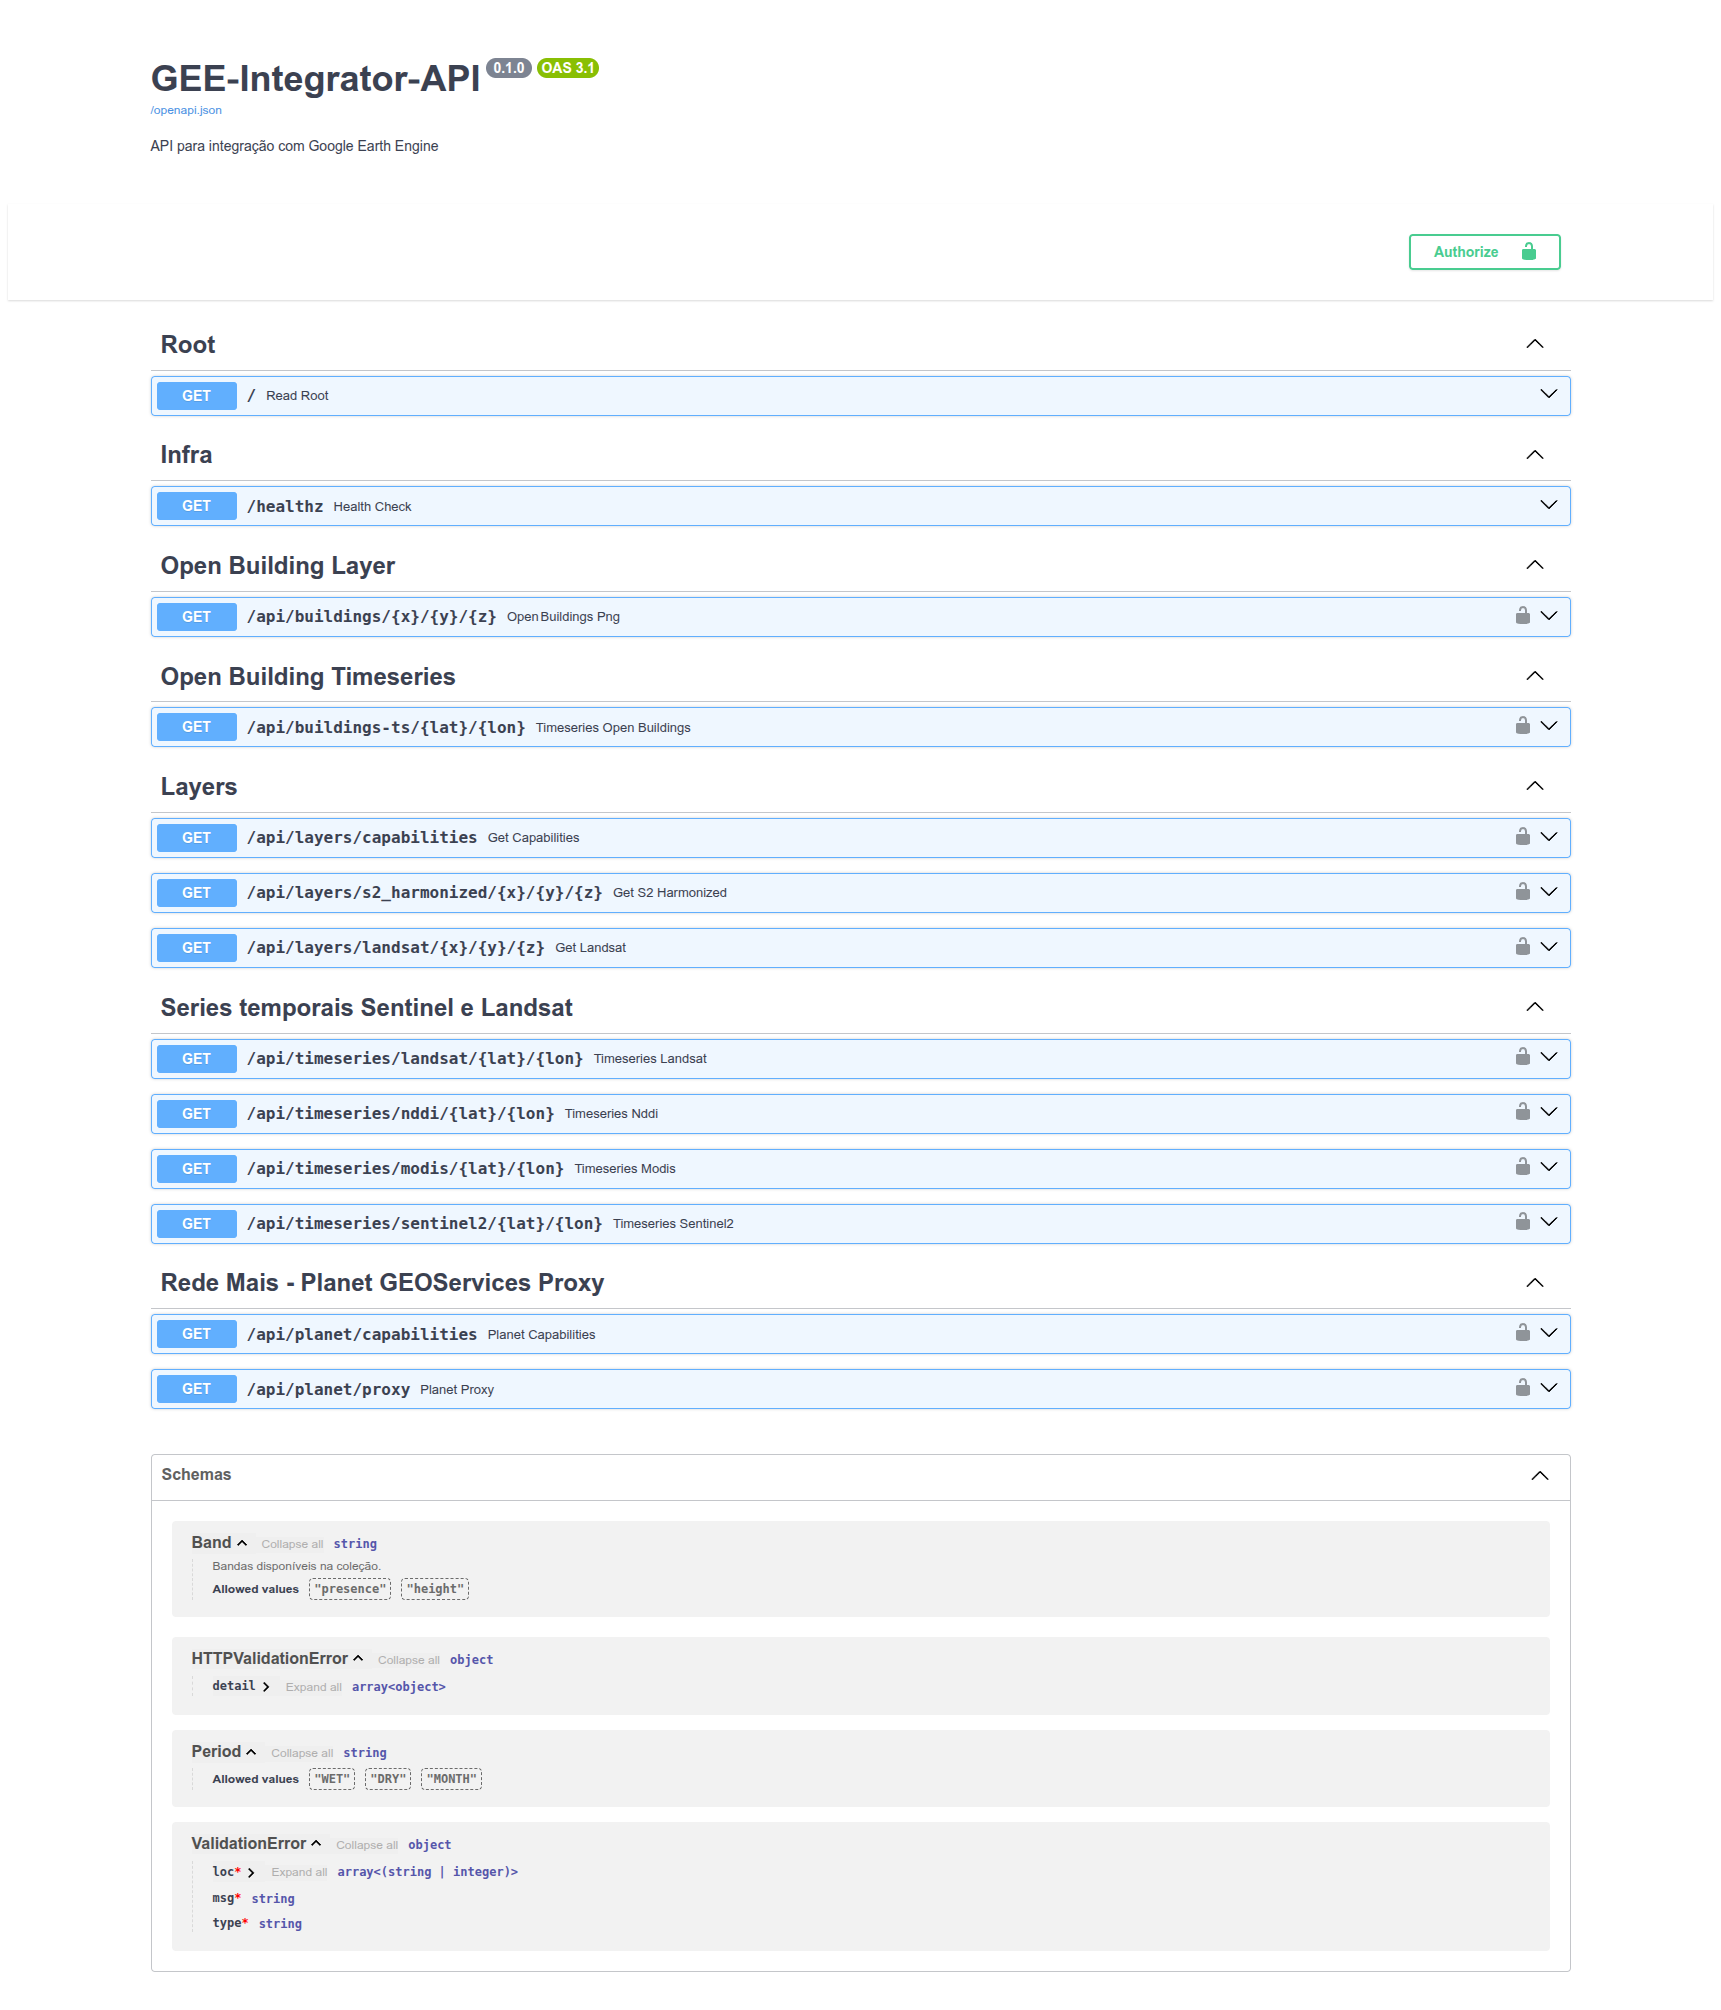
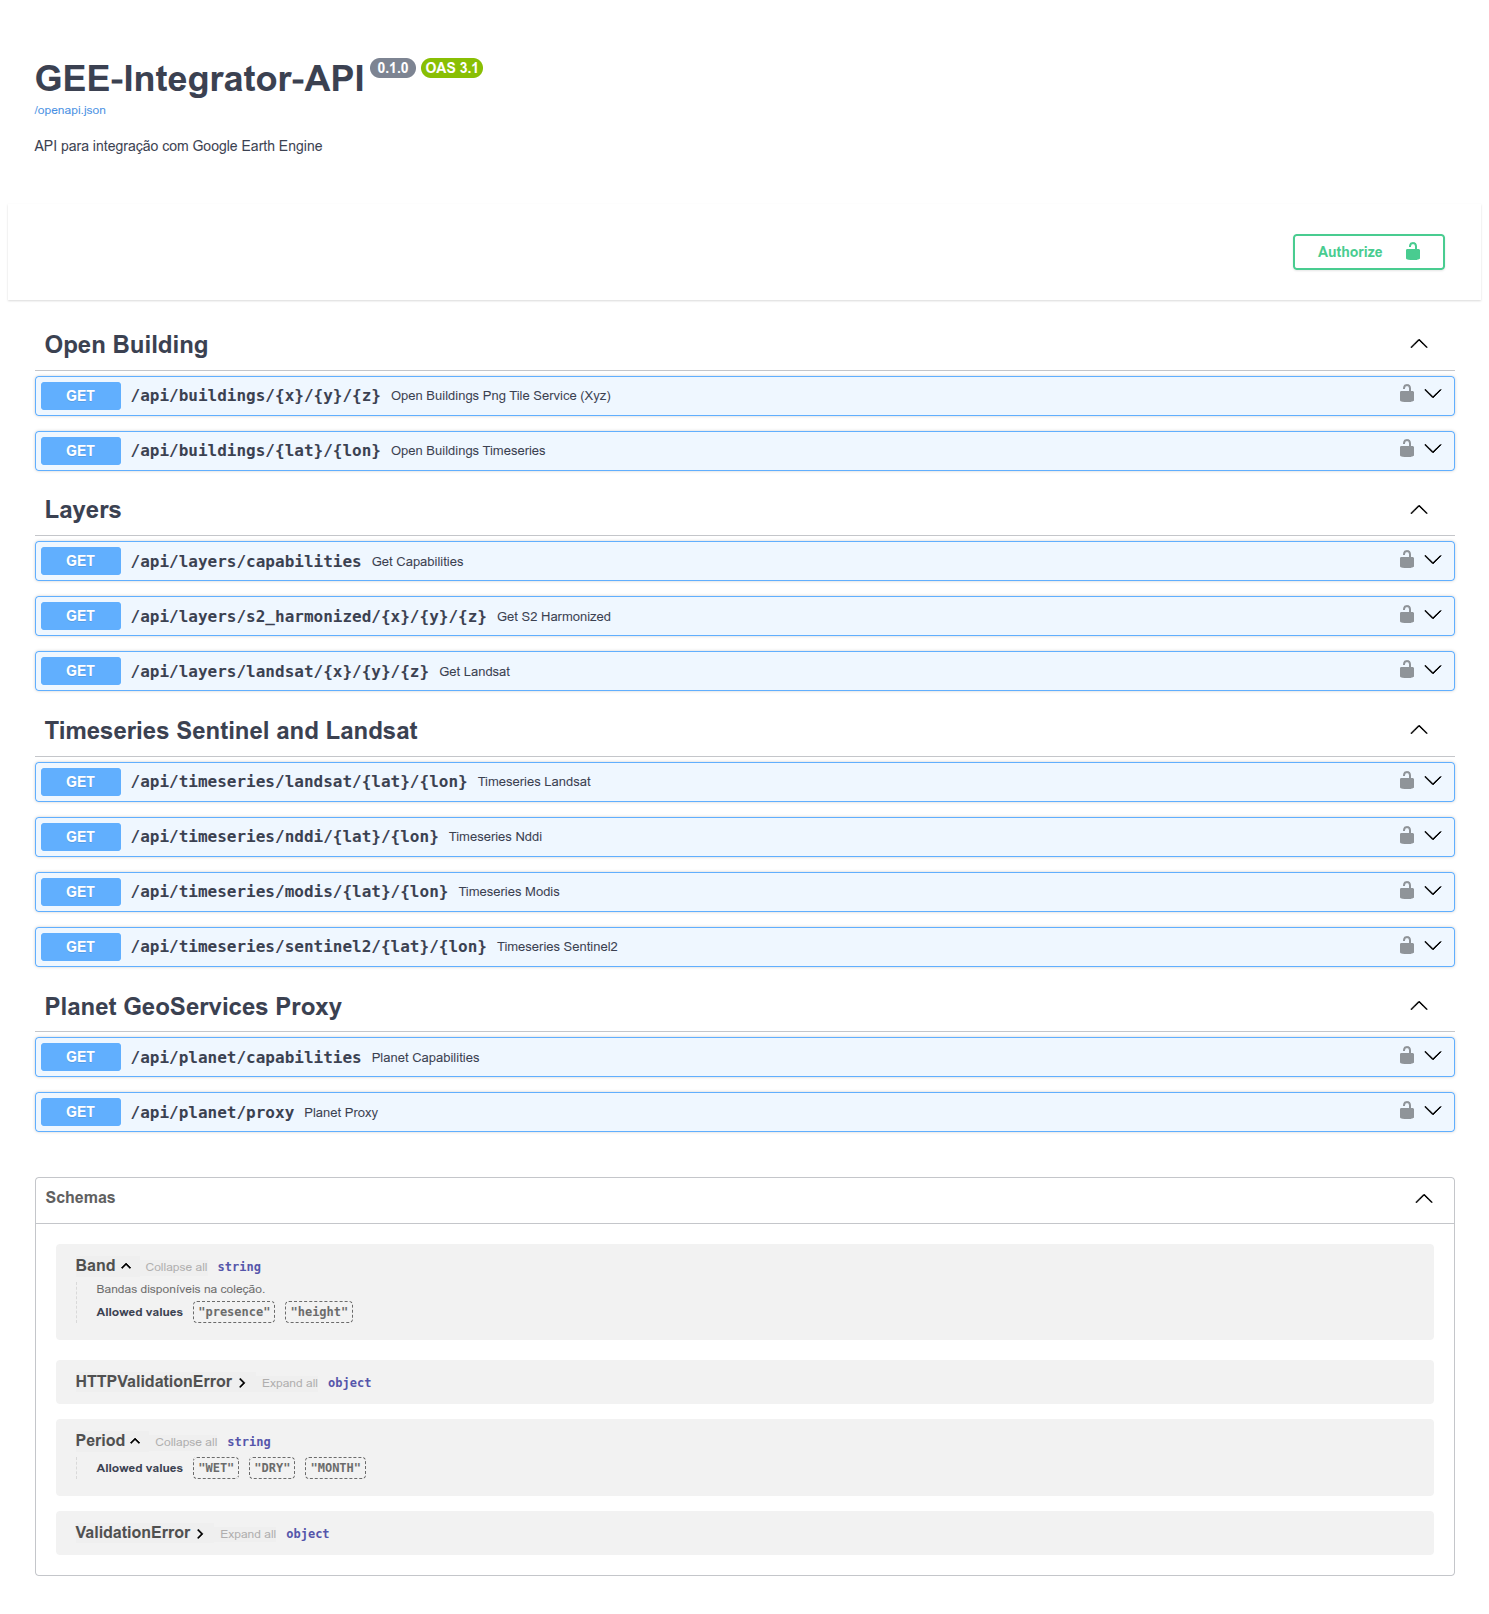
feat(api): implementação do health check.

diff --git a/app/api/buildings.py b/app/api/buildings.py
@@ -22,14 +22,20 @@ for necessário.
 from __future__ import annotations
 
 import io
-from datetime import datetime, timedelta
+from datetime import datetime
+from datetime import timedelta
 from enum import Enum
 from typing import Final
 
 import aiohttp
 import ee
-from fastapi import APIRouter, HTTPException, Request
+import numpy as np
+import pandas as pd
+from fastapi import APIRouter, HTTPException, Query
+from fastapi import Request
 from fastapi.responses import FileResponse, StreamingResponse
+from fastapi.responses import JSONResponse
+from scipy.signal import savgol_filter
 
 from app.auth.role_route import RoleAPIRouter
 from app.config import logger, settings
@@ -108,7 +114,7 @@ def _ano_valido(year: int) -> bool:
 # ----------------------------------------------------------------------------
 # Endpoint
 # ----------------------------------------------------------------------------
-@router.get("/{x}/{y}/{z}", name="Open Buildings PNG")
+@router.get("/{x}/{y}/{z}", name="Open Buildings PNG Tile Service (XYZ)")
 async def get_open_buildings_png(
     request: Request,
     x: int,
@@ -190,3 +196,78 @@ async def get_open_buildings_png(
 
     logger.info("Tile gerado %s", file_cache)
     return StreamingResponse(io.BytesIO(png), media_type="image/png")
+
+
+@router.get("/{lat}/{lon}", name="Open Buildings Timeseries")
+def timeseries_open_buildings(
+    lat: float,
+    lon: float,
+    band: str = Query("height", enum=["presence", "height"]),
+    start_date: str = Query("2015-07-01"),
+    end_date: str = Query(datetime.now().strftime('%Y-%m-%d'))
+
+):
+    try:
+        point = ee.Geometry.Point([lon, lat])
+        collection = ee.ImageCollection("GOOGLE/Research/open-buildings-temporal/v1") \
+            .filterDate(start_date, end_date) \
+            .filterBounds(point)
+
+        banda_gee = {
+            "presence": "building_presence",
+            "height": "building_height"
+        }[band]
+
+        def extract_band_timeseries(image):
+            date = ee.Date(image.get('system:time_start')).format('YYYY-MM-dd')
+            value = image.select(banda_gee).reduceRegion(
+                reducer=ee.Reducer.mean(),
+                geometry=point,
+                scale=10
+            ).get(banda_gee)
+            return ee.Feature(None, {"date": date, band: value})
+
+        series = collection.map(extract_band_timeseries).filter(
+            ee.Filter.notNull([band])
+        )
+
+        data = series.reduceColumns(
+            ee.Reducer.toList(2), ['date', band]
+        ).get('list').getInfo()
+
+        if not data:
+            return JSONResponse(content=[], status_code=204)
+
+        dates, values = zip(*data)
+        df = pd.DataFrame({'date': dates, band: values})
+        df = df.groupby('date').mean().reset_index()
+
+        def smooth(values, window_size=5, poly_order=2):
+            if len(values) >= window_size:
+                return savgol_filter(values, window_size, poly_order).tolist()
+            return values
+
+        values_raw = df[band].tolist()
+        values_smoothed = smooth(np.array(values_raw))
+
+        return JSONResponse(content=[
+            {
+                "x": df['date'].tolist(),
+                "y": values_raw,
+                "type": "scatter",
+                "mode": "markers",
+                "name": f"{band} (Original)"
+            },
+            {
+                "x": df['date'].tolist(),
+                "y": values_smoothed,
+                "type": "scatter",
+                "mode": "lines",
+                "name": f"{band} (Smoothed)"
+            }
+        ])
+
+    except ee.EEException as e:
+        raise HTTPException(status_code=500, detail=f"Earth Engine error: {str(e)}")
+    except Exception as e:
+        raise HTTPException(status_code=500, detail=f"Unexpected error: {str(e)}")

diff --git a/app/api/health_check.py b/app/api/health_check.py
@@ -1,0 +1,50 @@
+
+import ee
+import xmltodict
+import aiohttp
+from app.config import env, logger
+async def check_gee() -> str:
+    try:
+        # Teste com um asset real e existente
+        test_collection = (
+            ee.ImageCollection("GOOGLE/Research/open-buildings-temporal/v1")
+            .filterDate("2020-01-01", "2020-12-31")
+            .limit(1)
+        )
+        test_collection.size().getInfo()  # força avaliação
+        return "connected"
+    except Exception as e:
+        logger.warning("Erro ao conectar ao GEE: %s", e, exc_info=True)
+        return "error"
+
+def check_valkey(valkey_client) -> str:
+    try:
+        pong = valkey_client.ping()
+
+        return "connected" if pong else "error"
+    except Exception as e:
+        logger.warning(f"Erro ao conectar ao Valkey: {e}", e)
+        return "error"
+
+async def check_planet() -> str:
+    try:
+        planet_url = env.get("PLANET_WMS_URL")
+        planet_auth = env.get("PLANET_AUTH_TOKEN")
+        url = f"{planet_url}?SERVICE=WMS&REQUEST=GetCapabilities"
+        headers = {
+            "Authorization": f"Basic {planet_auth}",
+            "User-Agent": "Mozilla/5.0 QGIS/33415/Linux",
+        }
+
+        async with aiohttp.ClientSession() as session:
+            async with session.get(url, headers=headers, timeout=10) as response:
+                if response.status != 200:
+                    logger.error(f"Planet GetCapabilities falhou ({response.status})")
+                    return f"error ({response.status})"
+
+                xml_text = await response.text()
+                xmltodict.parse(xml_text)  # validando o XML
+                return "connected"
+    except Exception as e:
+        logger.warning("Erro ao verificar Planet WMS: %s", e)
+        return "error"

diff --git a/main.py b/main.py
@@ -4,7 +4,7 @@ from contextlib import asynccontextmanager
 import ee
 import orjson
 import valkey
-from fastapi import FastAPI, HTTPException
+from fastapi import FastAPI, HTTPException, status
 from fastapi.responses import JSONResponse, FileResponse
 from fastapi.middleware.cors import CORSMiddleware
 from google.oauth2 import service_account
@@ -15,6 +15,7 @@ from app.utils.cors import origin_regex, allow_origins
 from app.middleware.sso_keycloack import KeycloakAuthMiddleware
 from app.middleware.exception_handler import register_exception_handlers
 from app.auth.open_api_auth import add_global_bearer_auth
+from app.api.health_check import check_gee, check_valkey, check_planet
 
 
 
@@ -60,7 +61,7 @@ app.add_middleware(
 app.add_middleware(KeycloakAuthMiddleware)
 register_exception_handlers(app)
 
-@app.get("/", tags=["Root"])
+@app.get("/", tags=["Root"],  include_in_schema=False)
 def read_root():
     return {"message": "Bem-vindo ao GEE-Integrator-API"}
 
@@ -68,8 +69,23 @@ def read_root():
 def favicon():
     return FileResponse("static/favicon.ico")
 
-@app.get("/healthz", tags=["Infra"])
-def health_check():
-    return {"status": "ok"}
+@app.get("/healthz", tags=["Infra"],  include_in_schema=False)
+async def health_check():
+    results = {
+        "status": "ok",
+        "gee": "unknown",
+        "redis": "unknown",
+        "planet": "unknown"
+    }
+
+    results["gee"] = await check_gee()
+    results["redis"] = check_valkey(app.state.valkey)
+    results["planet"] = await check_planet()
+
+    if any(status != "connected" for status in results.values() if status != "ok"):
+        results["status"] = "error"
+        return JSONResponse(status_code=status.HTTP_503_SERVICE_UNAVAILABLE, content=results)
+
+    return results
 
 app = created_routes(app)

diff --git a/app/router.py b/app/router.py
@@ -1,10 +1,9 @@
-from .api import layers, timeseries, planet, buildings, buildings_ts
+from .api import layers, timeseries, planet, buildings
 
 
 def created_routes(app):
-    app.include_router(buildings.router, prefix="/api/buildings", tags=["Open Building Layer"])
-    app.include_router(buildings_ts.router, prefix="/api/buildings-ts", tags=["Open Building Timeseries"])
+    app.include_router(buildings.router, prefix="/api/buildings", tags=["Open Building"])
     app.include_router(layers.router, prefix="/api/layers", tags=["Layers"])
-    app.include_router(timeseries.router, prefix="/api/timeseries", tags=["Series temporais Sentinel e Landsat"])
-    app.include_router(planet.router, prefix="/api/planet", tags=["Rede Mais - Planet GEOServices Proxy"])
+    app.include_router(timeseries.router, prefix="/api/timeseries", tags=["Timeseries Sentinel and Landsat"])
+    app.include_router(planet.router, prefix="/api/planet", tags=["Planet GeoServices Proxy"])
     return app
